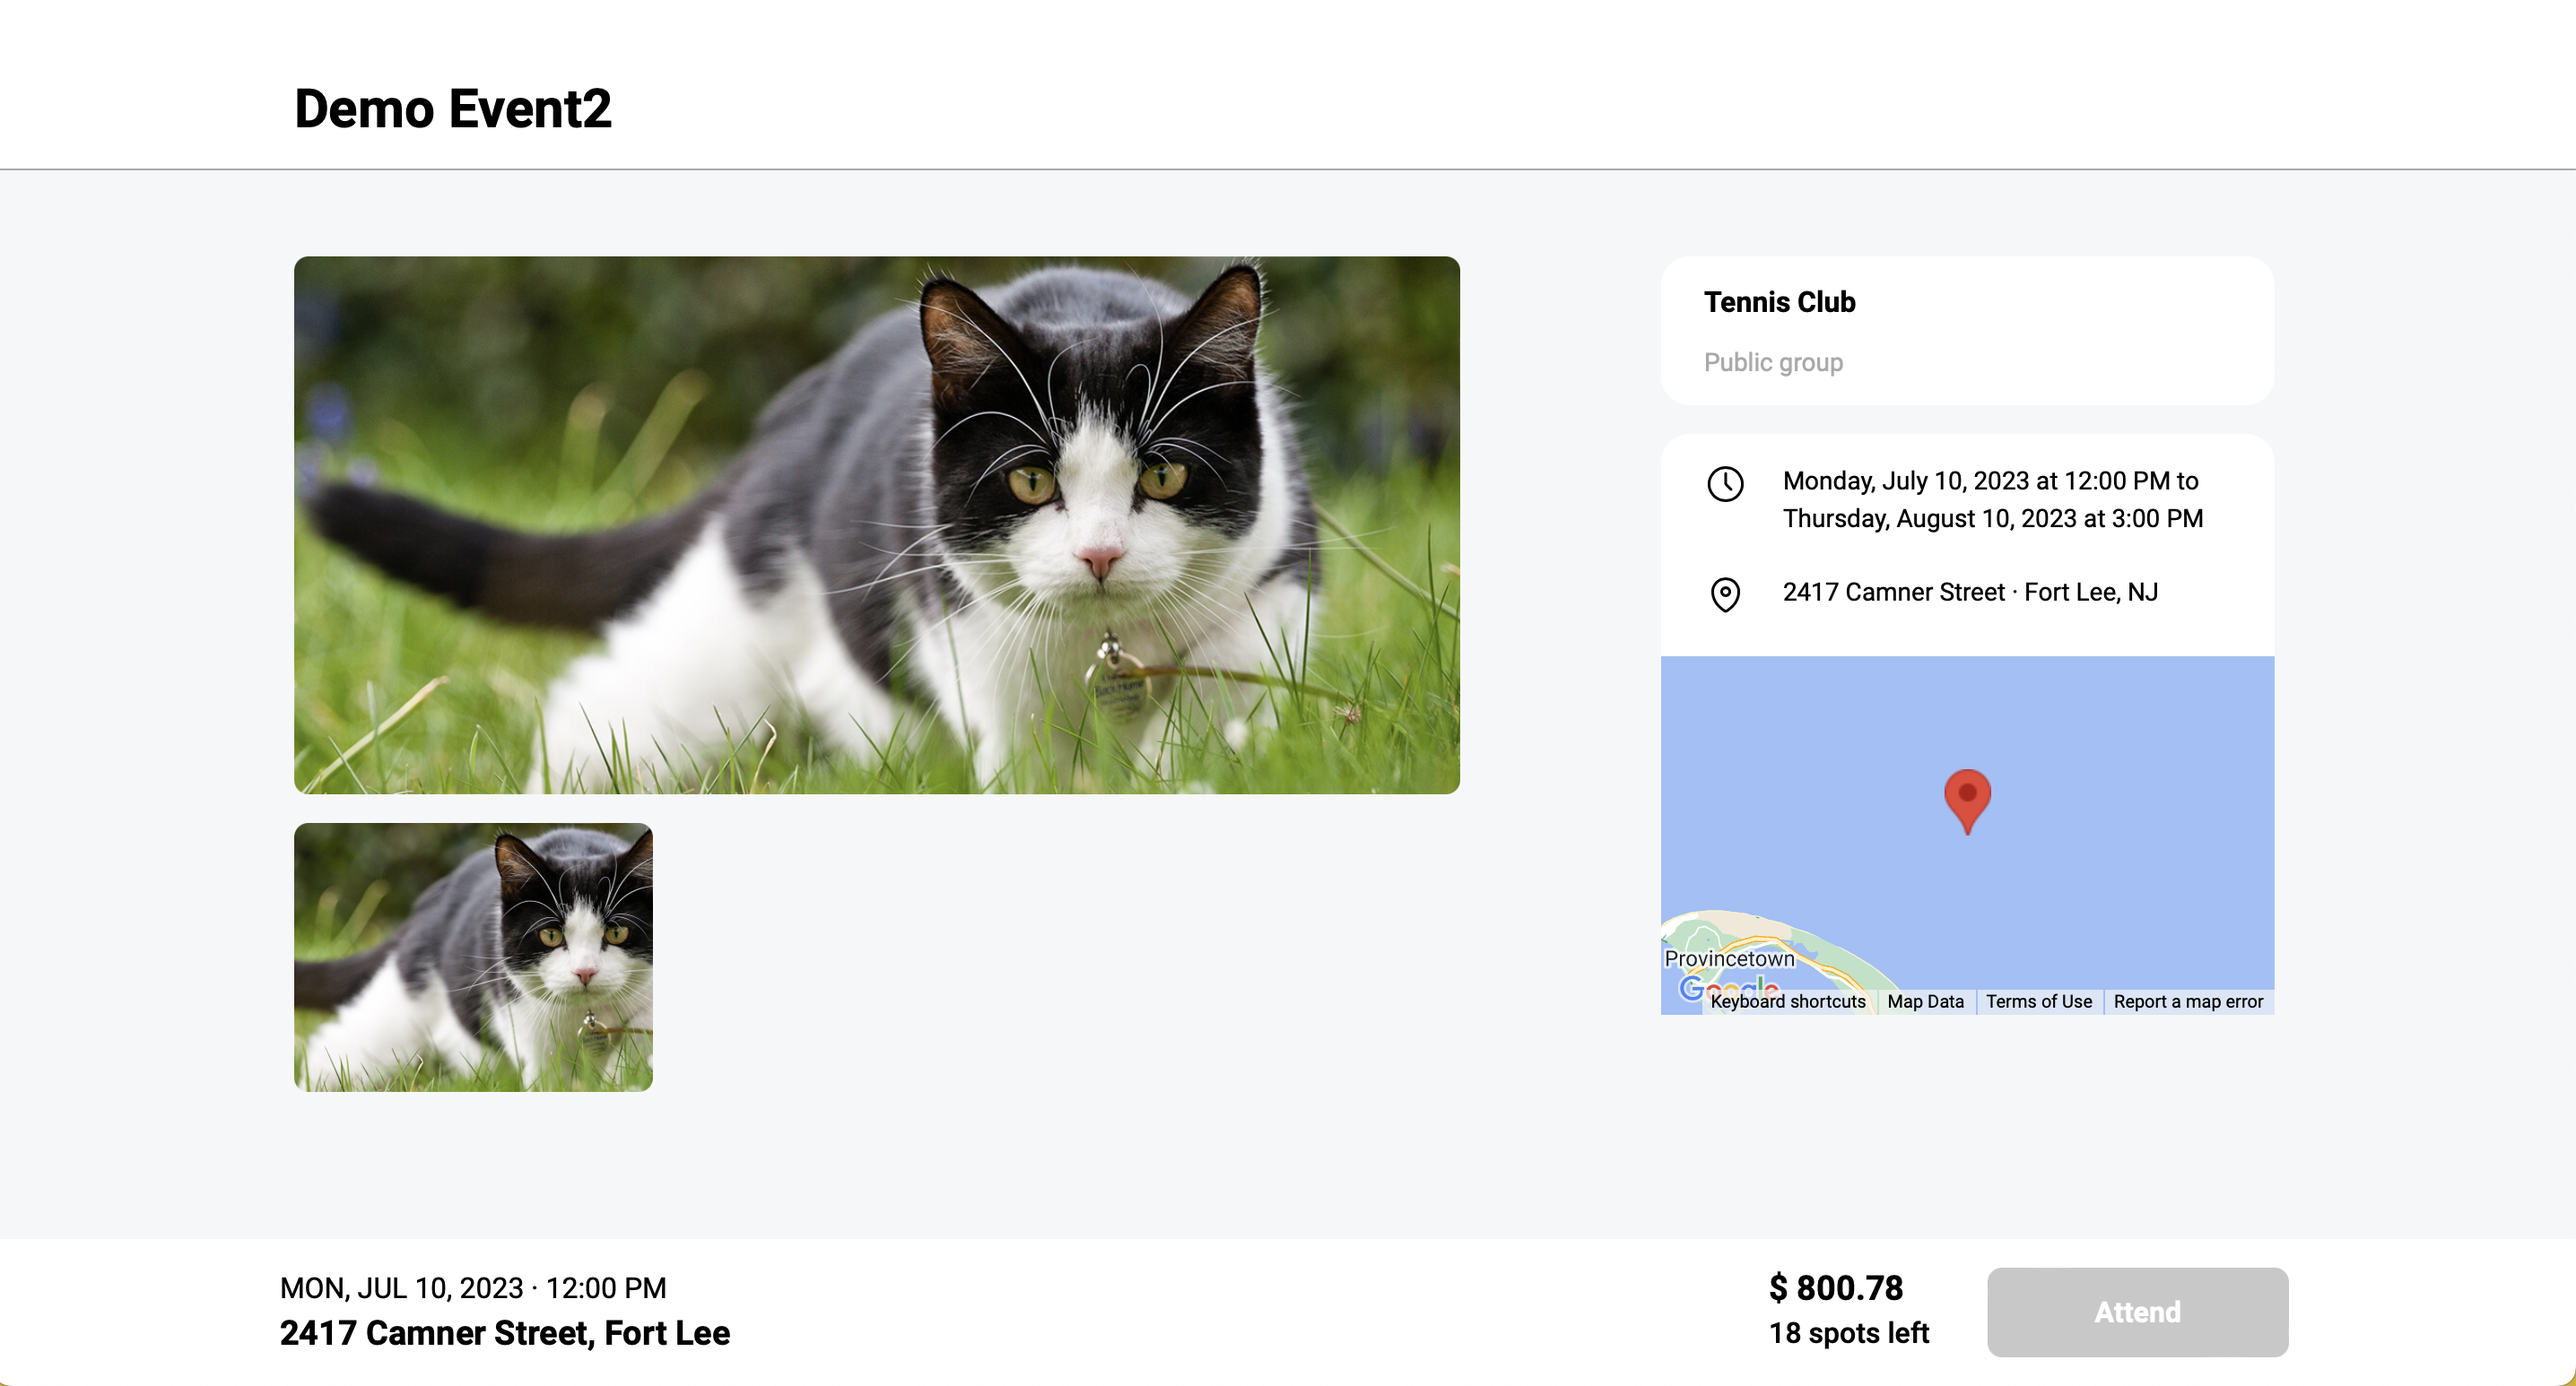
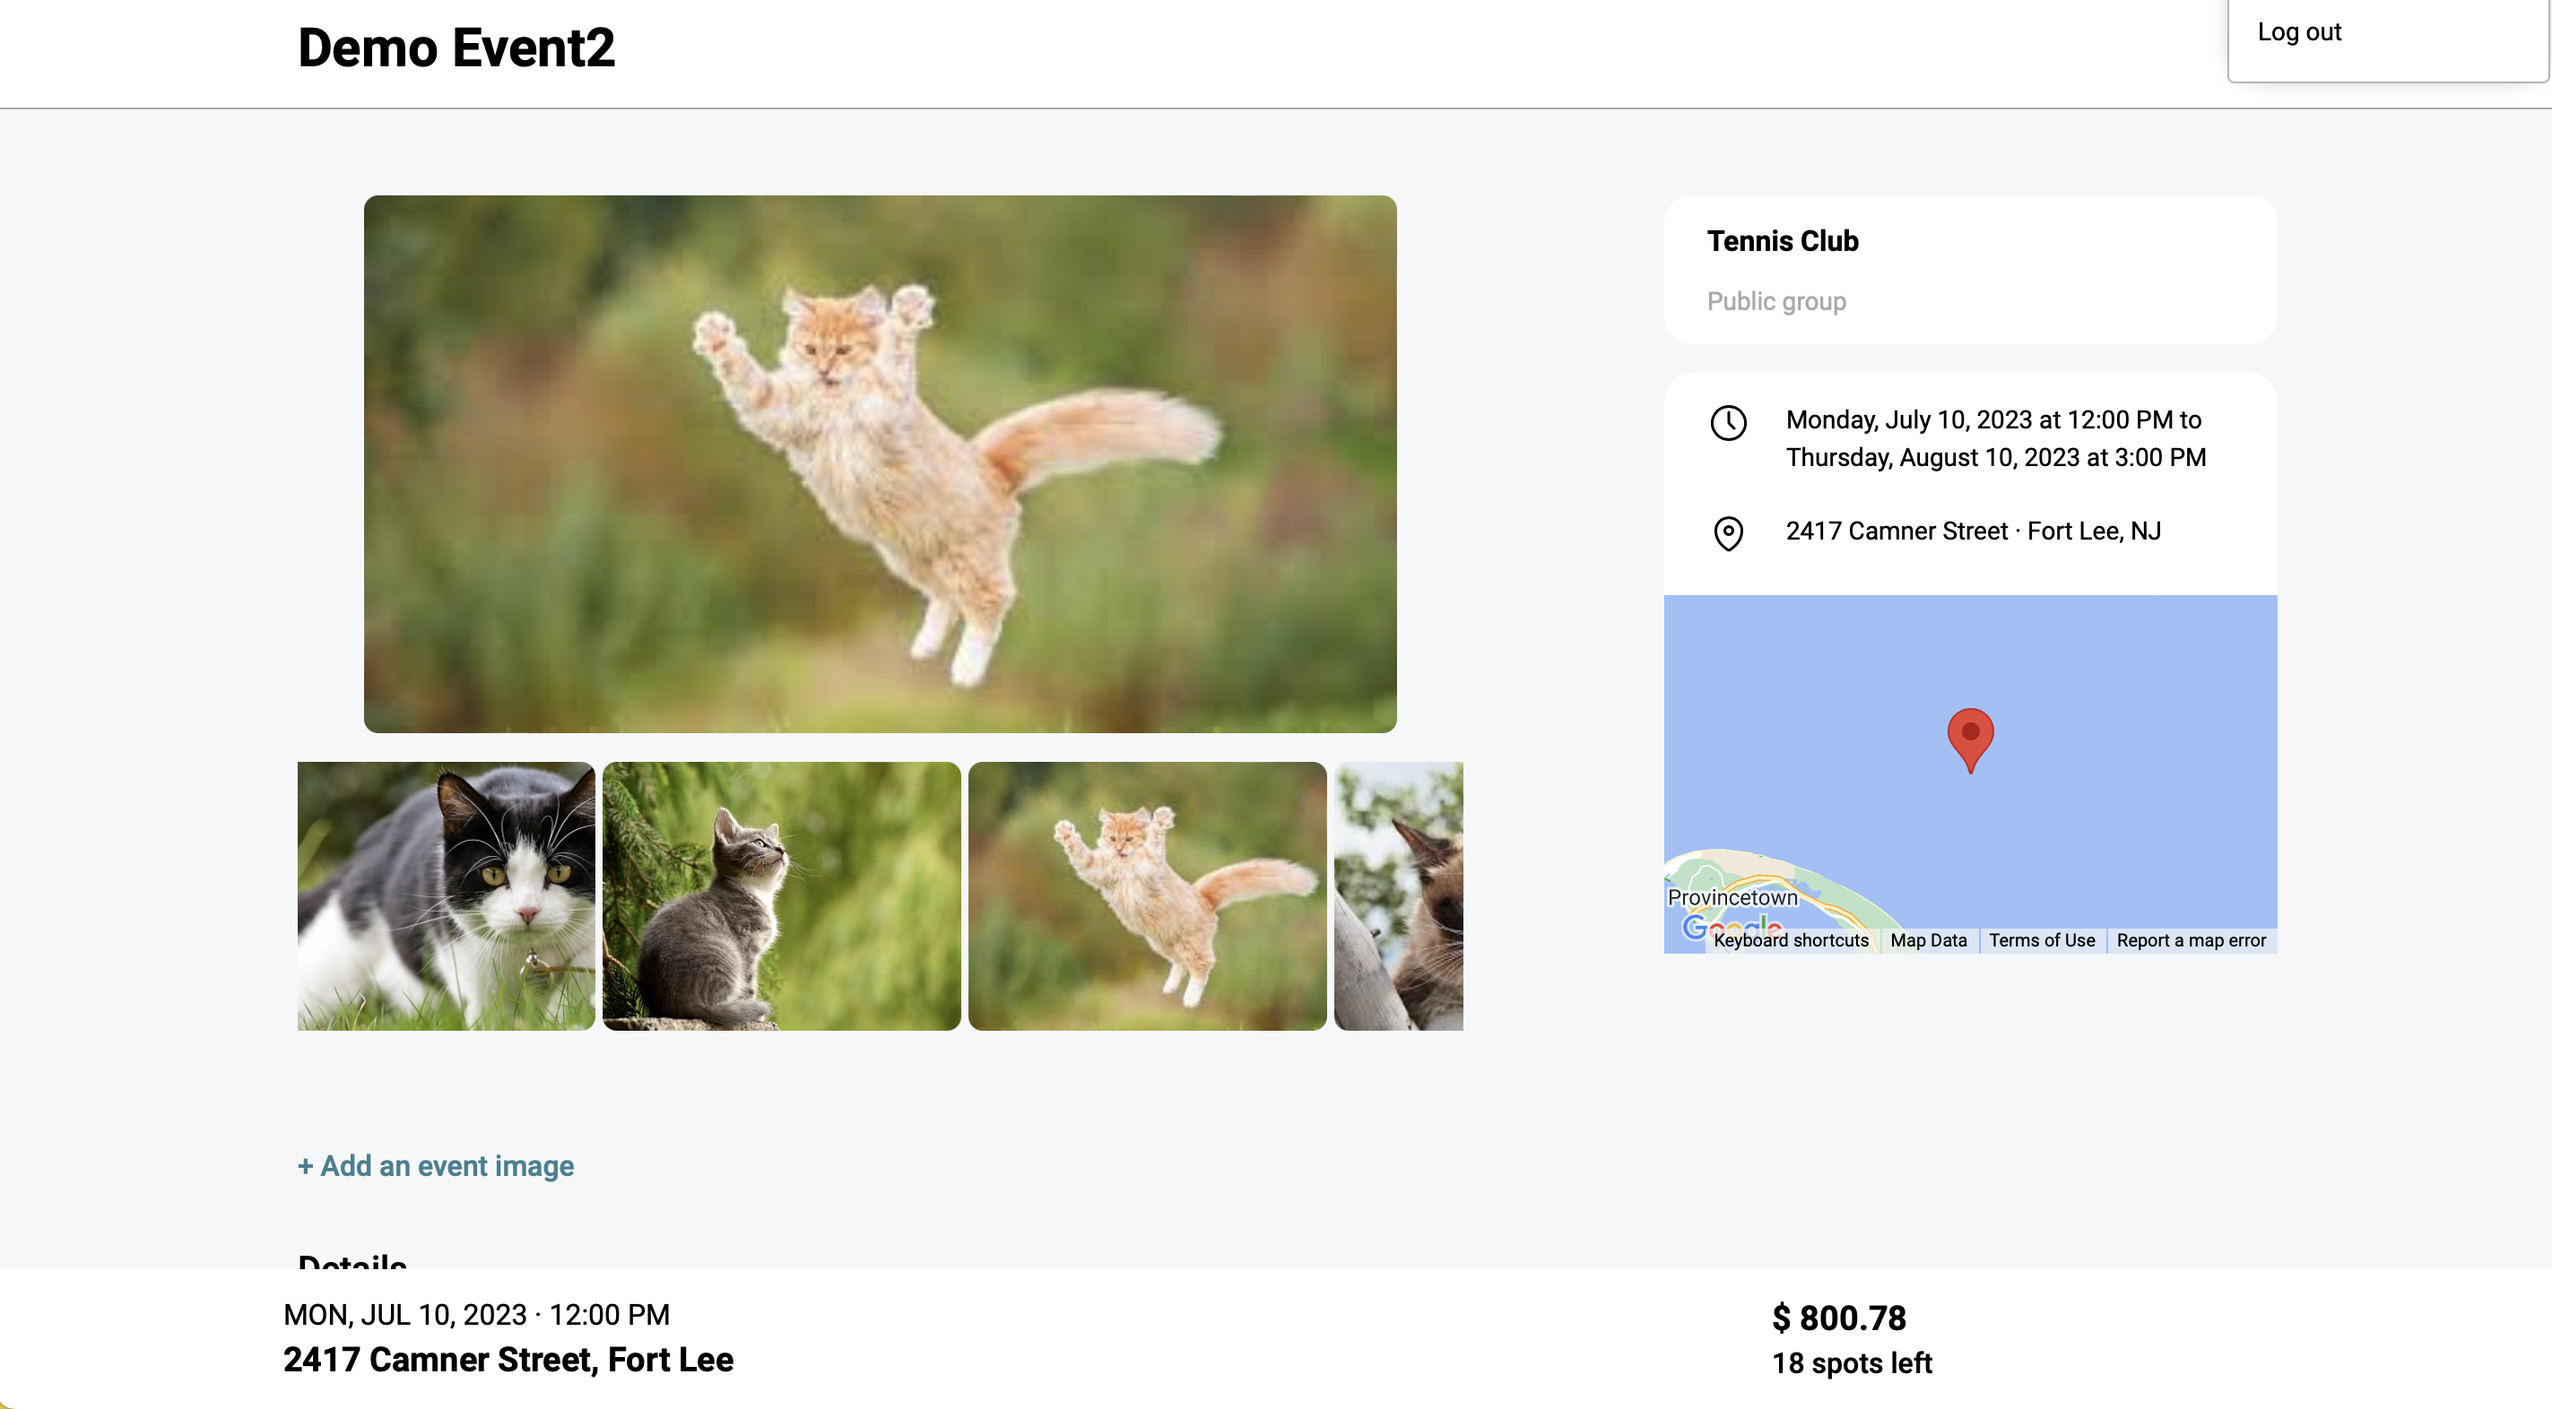
README file for frontend

diff --git a/README.md b/README.md
@@ -94,3 +94,13 @@ If organizers click on that modify button, they can edit group name, about and o
 [groupsettings3]: ./assets/groupsettings3.png
 [groupsettings4]: ./assets/groupsettings4.png
 [groupsettings5]: ./assets/groupsettings5.png
+
+## Event Settings Page
+
+Organizers can create and remove events here.
+
+![eventsettings1]
+![eventsettings2]
+
+[eventsettings1]: ./assets/eventsettings1.png
+[eventsettings2]: ./assets/eventsettings2.png
